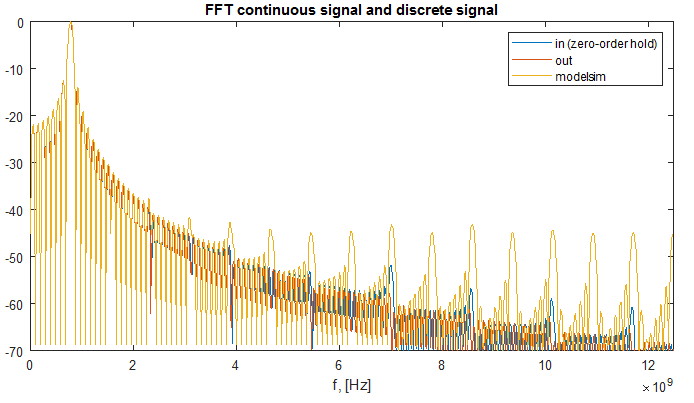
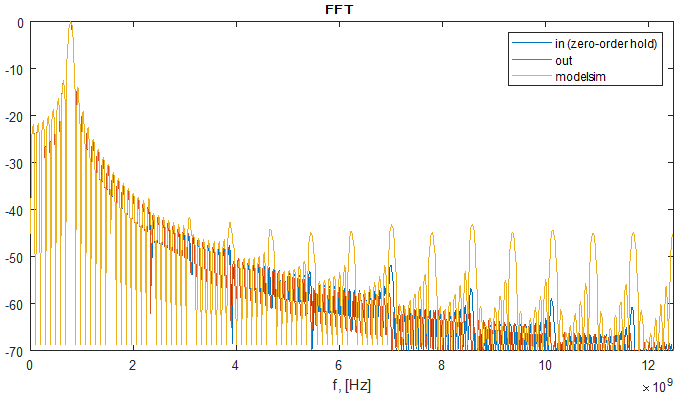
fix fft picture

Changed region(s): [[0.2723, 0.0, 0.7262, 0.0596]]

diff --git a/sin_osc_tb.m b/sin_osc_tb.m
@@ -71,7 +71,7 @@ plot(n_f,10.*log10(y_discr_fft_norm))
 hold on
 plot(n_src_f,10.*log10(y_src_fft_norm))
 axis([0 max(n_f)/2 -50 0])
-title('FFT continuous signal and discrete signal')
+title('FFT')
 xlabel('f, [Hz]')
 %% Read file from ModelSim
 file=fopen('output.txt','r');
